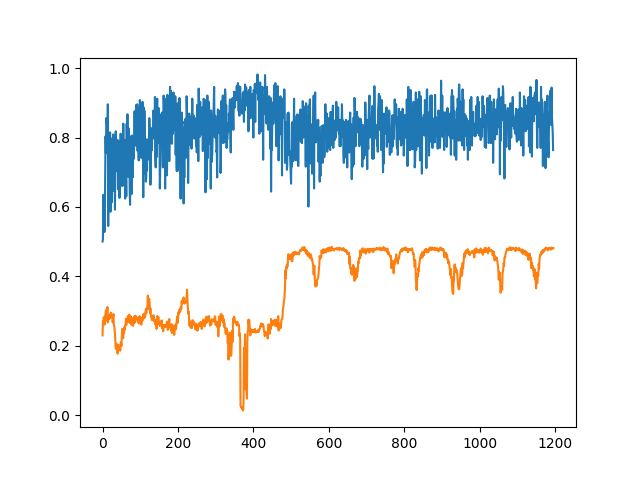
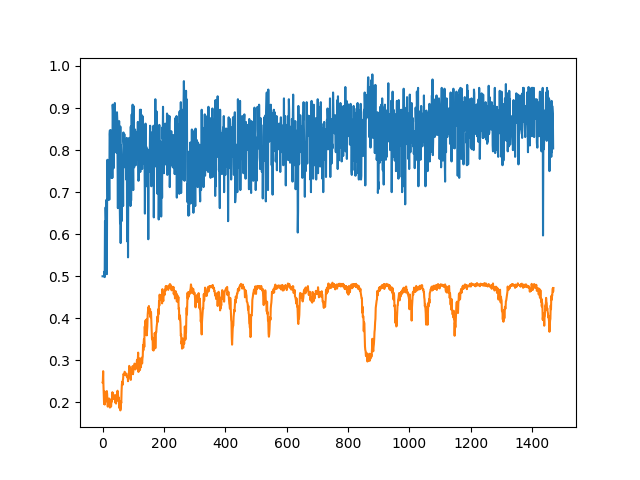
trying to replicate results on d, not working

diff --git a/d-2d-merge-impossible/common.py b/d-2d-merge-impossible/common.py
@@ -70,6 +70,7 @@ def compute_train_stats(
         label_dist = th.distributions.Bernoulli(logits=disc_logits_expert_is_high)
         entropy = th.mean(label_dist.entropy())
 
+
     return {
         "disc_loss": float(th.mean(disc_loss)),
         "disc_acc": float(acc),
@@ -590,10 +591,14 @@ class AdversarialTrainer(base.DemonstrationAlgorithm[types.Transitions]):
             dones = np.concatenate([expert_batch["dones"], gen_batch["dones"]])
             # notice that the labels use the convention that expert samples are
             # labelled with 1 and generator samples with 0.
+            is_expert_ones = np.ones(self.demo_minibatch_size, dtype=int)
+            is_expert_ones[:self.n_real_to_fake_label_flip] = 0
+            np.random.shuffle(is_expert_ones)
+
             labels_expert_is_one = np.concatenate(
                 [
-                    np.ones(self.demo_minibatch_size - self.n_real_to_fake_label_flip, dtype=int),
-                    np.zeros(self.demo_minibatch_size + self.n_real_to_fake_label_flip, dtype=int),
+                    is_expert_ones,
+                    np.zeros(self.demo_minibatch_size, dtype=int),
                 ],
             )
 

diff --git a/i-stack/success_rate.py b/i-stack/success_rate.py
@@ -1,0 +1,54 @@
+from stable_baselines3.ppo import MlpPolicy
+import torch
+from settings import _n_timesteps
+import gym
+from gym.envs.registration import register
+import my_spaces
+
+
+
+import warnings
+warnings.filterwarnings("ignore")
+
+device = torch.device('cpu')
+my_model = MlpPolicy.load("models/model-31222174559-acc-0.4419463087248322", device=device)
+
+
+
+
+
+_env_test = gym.make("merge-v0", config={"simulation_frequency": 24,
+  "policy_frequency": 8,
+  "lanes_count": 6,
+  "initial_lane_id": 0,
+  'vehicles_count': 50,
+  "duration": _n_timesteps})
+  
+
+
+
+def sanity(model):
+  prev_obs = _env_test.reset()
+
+  for i in range(0,_n_timesteps):
+    predicted_action = model.predict(prev_obs)[0]
+    # print(predicted_action)
+    cur_state = _env_test.step(predicted_action)
+    prev_obs = cur_state[0]
+    if _env_test.vehicle.crashed:
+      print("CRASHED")
+      return False
+    if not _env_test.vehicle.on_road:
+      print("OFF ROAD")
+      return False
+  print("SUCCESS")
+  return True
+
+
+successes = 0
+for i in range(100):
+  successes += sanity(my_model)
+print("SUCCESS RATE")
+print(successes / 100.0)
+
+

diff --git a/d-2d-merge-impossible/hyperparams.py b/d-2d-merge-impossible/hyperparams.py
@@ -2,20 +2,21 @@
 _max_disc_acc_until_quit = 2.0
 _max_mode_until_quit = 2.0
 def _learning_rate_func(progress):
-  lr_start = .0005
-  lr_end = .0003
+  lr_start = .001
+  lr_end = .0005
   lr_diff = lr_end - lr_start
   return lr_start + progress * lr_diff
-_n_gen_train_steps = 40
+_n_gen_train_steps = 50
 _n_disc_updates_per_round = 3
-_buf_multiplier = 3
-_policy_net_shape = dict(pi=[16, 16, 16], vf=[16, 16, 16])
-_ent_coef_lo = .0005
-_ent_coef_hi = .0020
+_buf_multiplier = 10
+_policy_net_shape = dict(pi=[16, 16, 16, 16], vf=[16, 16, 16, 16])
+_ent_coef_lo = .001
+_ent_coef_hi = .0025
 _ent_coef_slope_start = .8
 _ppo_settings = {
   "ent_coef": _ent_coef_lo,
   "learning_rate": _learning_rate_func,
-  "n_epochs": 40,
+  "n_epochs": 50,
   "gamma": 1,
 }
+_n_real_to_fake_label_flip = .2

diff --git a/d-2d-merge-impossible/test_env.py b/d-2d-merge-impossible/test_env.py
@@ -29,6 +29,7 @@ m_n_real_to_fake_label_flip = 0
 try:
   from hyperparams import _n_real_to_fake_label_flip
   m_n_real_to_fake_label_flip = _n_real_to_fake_label_flip
+  print("using label flip")
 except:
   pass
 
@@ -268,7 +269,7 @@ _gail_trainer = GAIL(
     venv=_venv,
     gen_algo=_learner,
     reward_net=_reward_net,
-    n_real_to_fake_label_flip=m_n_real_to_fake_label_flip
+    n_real_to_fake_label_flip=int(m_n_real_to_fake_label_flip*_n_timesteps)
 )
 
 evaluate(_learner, _traj_all)

diff --git a/d-2d-merge-impossible/nets.py b/d-2d-merge-impossible/nets.py
@@ -40,7 +40,7 @@ class MyRewardNet(RewardNet):
         
 
         full_build_mlp_kwargs: Dict[str, Any] = {
-            "hid_sizes": (32, 32),
+            "hid_sizes": (16, 16),          # starting at zw1
             **kwargs,
             # we do not want the values below to be overridden
             "in_size": combined_size,
